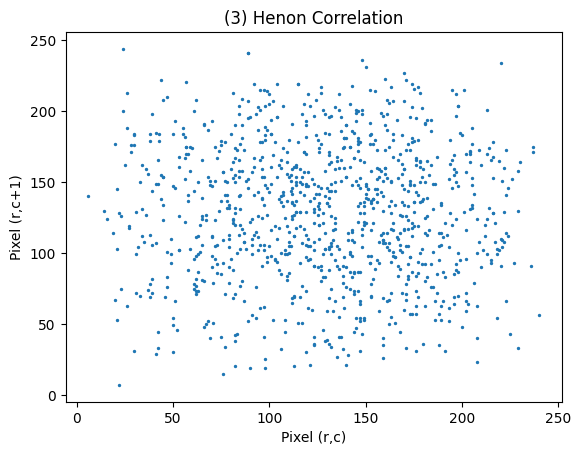
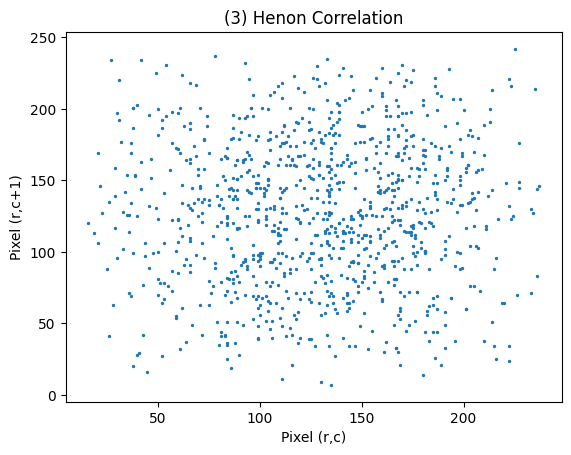
updated hyperparameters to improve performance

diff --git a/triple_chaos_demo.py b/triple_chaos_demo.py
@@ -250,7 +250,7 @@ def rossler_system(t, state, a=0.2, b=0.2, c=5.7):
     dz = b + z * (x - c)
     return [dx, dy, dz]
 
-def generate_rossler_sequence(length, x0=0.1, y0=0.1, z0=0.1, a=0.2, b=0.2, c=5.7):
+def generate_rossler_sequence(length, x0=0.1, y0=0.1, z0=0.1, a=0.432, b=2, c=4):
     t_span = [0, length * 0.1]  # Time interval
     t_eval = np.linspace(t_span[0], t_span[1], length)  # Sample points
     sol = solve_ivp(rossler_system, t_span, [x0, y0, z0], args=(a, b, c), t_eval=t_eval)
@@ -338,9 +338,8 @@ def run_demo():
     #################################################
     # Stage B: Henon
     #################################################
-    henon_key = (0.1, 0.2)
-    x0, y0 = henon_key
-    step_henon = henon_encrypt(step_arnold, x0, y0)
+    henon_key = (0.1, 0.25)
+    step_henon = henon_encrypt(step_arnold, henon_key[0], henon_key[1])
     show_and_save_image(step_henon, "(3) After Henon", "outputs/3_henon.png")
     show_and_save_histogram(step_henon, "(3) Henon Histogram", "outputs/3_henon_hist.png")
     show_and_save_correlation(step_henon, title="(3) Henon Correlation", save_path="outputs/3_henon_corr.png")
@@ -348,9 +347,8 @@ def run_demo():
     #################################################
     # Stage C: Rossler
     #################################################
-    rossler_key = (0.3, 0.2, 0.1)
-    x0, y0, z0 = rossler_key
-    final_cipher = rossler_encrypt(step_henon, x0, y0, z0)
+    rossler_key = (0.582, 0.628, 0.9389)
+    final_cipher = rossler_encrypt(step_henon, rossler_key[0], rossler_key[1], rossler_key[2])
     show_and_save_image(final_cipher, "(4) Final Cipher (Rossler)", "outputs/4_final_cipher.png")
     show_and_save_histogram(final_cipher, "(4) Cipher Histogram", "outputs/4_final_cipher_hist.png")
     show_and_save_correlation(final_cipher, title="(4) Cipher Correlation", save_path="outputs/4_final_cipher_corr.png")
@@ -362,7 +360,7 @@ def run_demo():
     # DECRYPTION (Reverse Steps)
     #################################################
     # Step 1: Undo Rossler
-    dec_log = rossler_decrypt(final_cipher, rossler_key[0], rossler_key[1])
+    dec_log = rossler_decrypt(final_cipher, rossler_key[0], rossler_key[1], rossler_key[2])
     show_and_save_image(dec_log, "(5) Decrypt Step 1 (Undo Rossler)", "outputs/5_undo_rossler.png")
 
     # Step 2: Undo Henon
